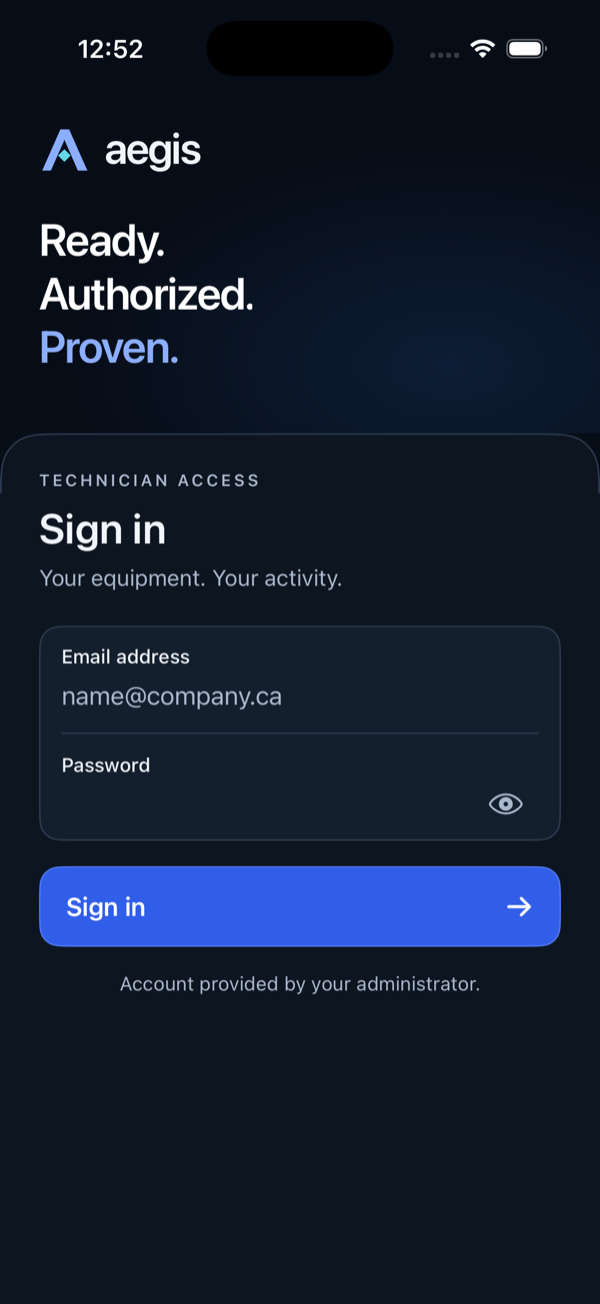
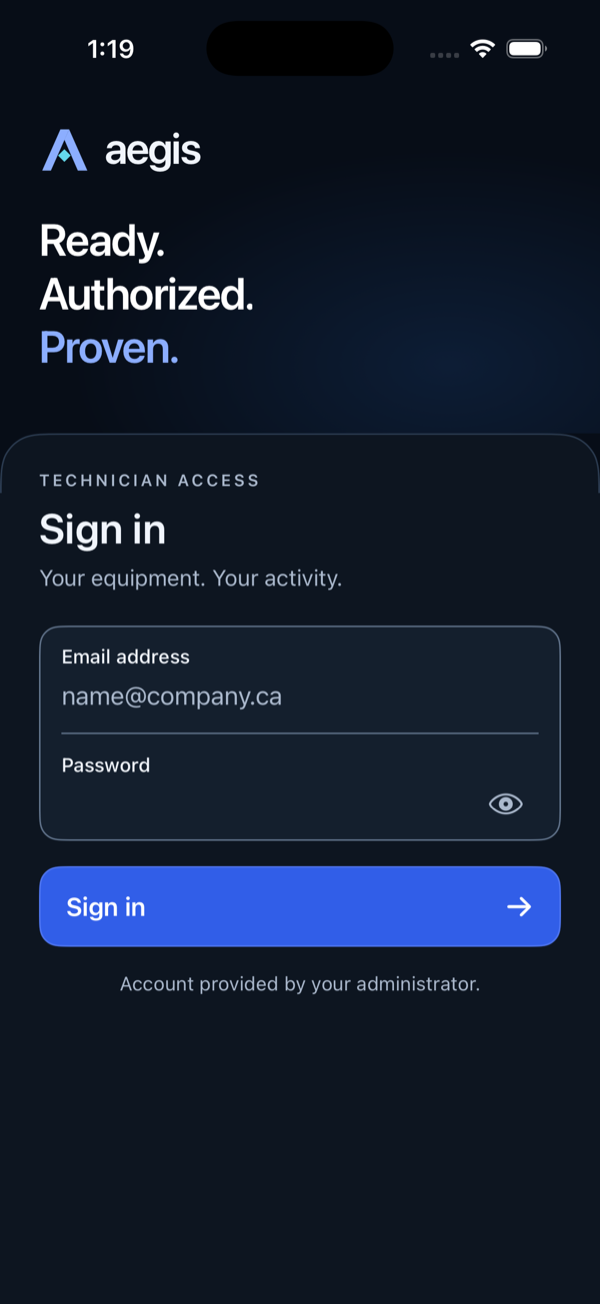
docs(design): finalize the approved iOS sign-in handoff
Record Philippe's approval of the v3 native adaptation and the finishing
decisions: field edges at 3:1 in the normal mode with a further increase
for Increase Contrast, persistent labels without redundant placeholders,
a single Retry-After display, the offline resume, the common signature and
the trace identifier label. Re-render the captures with the new edges.

Refs #35

Changed region(s): [[0.06, 0.4908, 0.09, 0.6442], [0.93, 0.4908, 0.96, 0.6135], [0.12, 0.0307, 0.24, 0.0613]]

diff --git a/docs/design/mobile-entree/prototype/SignInPrototype.swift b/docs/design/mobile-entree/prototype/SignInPrototype.swift
@@ -185,9 +185,8 @@ private struct SignInForm: View {
     @State private var revealed = false
     @Environment(\.colorSchemeContrast) private var contrast
 
-    /// The v3 border (1.3–1.6:1) is decorative; Increase Contrast gets an
-    /// edge that meets 3:1 for the input boundary.
-    private var fieldEdge: Color { contrast == .increased ? Palette.muted : Palette.border }
+    /// Field edges meet 3:1 in the normal mode; Increase Contrast goes further.
+    private var fieldEdge: Color { contrast == .increased ? Palette.muted : Palette.fieldEdge }
 
     init(state: ProtoState, text: Copy, focus: FocusState<SignInPrototypeScreen.Field?>.Binding) {
         self.state = state
@@ -463,6 +462,7 @@ enum Palette {
     static let text = dynamic(light: 0x122339, dark: 0xF1F5FC)
     static let muted = dynamic(light: 0x53647B, dark: 0xABB9CD)
     static let border = dynamic(light: 0xD7DFE9, dark: 0x2B3B50)
+    static let fieldEdge = dynamic(light: 0x7D8A9C, dark: 0x62748C)
     static let accent = dynamic(light: 0x234BCE, dark: 0x8CAEFF)
     static let button = dynamic(light: 0x234BCE, dark: 0x315EE8)
     static let buttonEdge = Color(red: 0x7D / 255, green: 0x9B / 255, blue: 1, opacity: 0.4)

diff --git a/docs/design/mobile-entree/proposition.md b/docs/design/mobile-entree/proposition.md
@@ -1,14 +1,26 @@
 # Aegis Mobile — connexion native, direction « Lumière du hub » v3
 
-Mode : Prototype. Mise à jour du 21 octobre 2026. Issues : #35 (DES-01),
-préalable à #36 (IOS-01); localisation coordonnée avec #78.
+Handoff pour #36 (IOS-01). Issue : #35 (DES-01); localisation coordonnée avec
+#78, identité avec #79. Mise à jour du 21 octobre 2026.
 
-**Statut.** Philippe a sélectionné la direction « Lumière du hub », révision
-v3 sans illustration (brief du 21 octobre 2026; référence
-`aegis-lumiere-du-hub-v3.html`). Cette page présente son **adaptation native**
-et les **nouveaux textes**. Elle doit être validée avant l'intégration dans
-#36. La version précédente (« Verre lumineux », 23 septembre) est remplacée;
-ses captures ont été retirées.
+**Statut : approuvé le 21 octobre 2026 par Philippe**, pour la direction
+« Lumière du hub » v3 sans illustration (référence
+`aegis-lumiere-du-hub-v3.html`), l'adaptation native ci-dessous et les
+décisions de finition :
+
+- bordures des champs renforcées dès le mode normal (≥ 3:1), et davantage avec
+  « Augmenter le contraste »;
+- libellés persistants, sans placeholder redondant;
+- délai `Retry-After` affiché une seule fois;
+- reprise hors ligne validée;
+- signature « Prêt. Autorisé. Prouvé. » / « Ready. Authorized. Proven. »;
+- « Identifiant de suivi » / « Trace ID »;
+- logo provisoire : monogramme et « aegis », sans « CORE »; le designer
+  livrera la version finale.
+
+Les autres textes suivent le glossaire partagé (`docs/localisation/`, #78), en
+formulations courtes et équivalentes en français et en anglais. La version
+précédente (« Verre lumineux », 23 septembre) est remplacée.
 
 Les captures viennent d'un prototype SwiftUI statique, compilé avec le SDK iOS
 dans une copie temporaire de `apps/ios`. Le code de l'application n'est pas
@@ -22,7 +34,7 @@ modifié.
 | Marque | « A » abstrait avec noyau, `aegis`, filet, `CORE` | Monogramme en asset vectoriel `AegisMark` (clair et sombre), suivi de `aegis` en police système; **sans `CORE`** (décision du 21 octobre 2026). VoiceOver lit « Aegis », en en-tête |
 | Panneau | Coins supérieurs de 27 pt, filet supérieur | Identique; le fond continue jusqu'en bas de l'écran |
 | Titre | Surtitre, « Connexion », sous-titre | Styles Dynamic Type (`caption2`, `title`, `subheadline`) |
-| Champs | Groupe à fond distinct, libellés persistants | `TextField` (`.username`, clavier courriel) et `SecureField` (`.password`, action Aller); bouton œil de 44 × 44 pt. Aucun placeholder pour le mot de passe : le libellé suffit |
+| Champs | Groupe à fond distinct, libellés persistants | `TextField` (`.username`, clavier courriel, action Suivant) et `SecureField` (`.password`, action Aller); bouton œil de 44 × 44 pt. Bordure et séparateur `fieldEdge` (≥ 3:1). Aucun placeholder pour le mot de passe : le libellé suffit; l'exemple de courriel reste |
 | Bouton | Plein, coins de 14 pt, flèche à droite, 54 pt de haut | Bouton natif avec style personnalisé. Pendant l'envoi : indicateur et « Connexion… », appuis ignorés, VoiceOver lit « Connexion en cours » |
 | Erreur | Bandeau teinté, une phrase | Une phrase courte, avec symbole; le délai `Retry-After` n'apparaît qu'ici |
 | Apparence | Sombre profond, Clair minéral | Apparence système; aucun sélecteur ajouté |
@@ -30,31 +42,32 @@ modifié.
 Aucune illustration, aucun casier ni indicateur « connecté » ou « sécurisé »
 avant l'authentification.
 
-## Textes (FR de référence, EN proposé)
+## Textes (FR de référence, EN)
 
-Tous les textes nouveaux ou raccourcis sont **à valider**.
+Validés le 21 octobre 2026 avec la consigne « formulations courtes et
+équivalentes ». Les textes de l'application vivent dans son String Catalog.
 
 | Clé | Français | English | Statut |
 |---|---|---|---|
-| Signature | Prêt. Autorisé. Prouvé. | Ready. Authorized. Proven. | à valider (brief) |
-| Surtitre | Espace technicien | Technician access | proposé (v3 / EN) |
-| Titre | Connexion | Sign in | approuvé (FR) |
-| Sous-titre | Vos équipements. Votre activité. | Your equipment. Your activity. | proposé (v3 / EN) |
-| Exemple de courriel | nom@entreprise.ca | name@company.ca | proposé |
-| Action | Se connecter | Sign in | approuvé (FR) |
-| Envoi | Connexion… (lu : « Connexion en cours ») | Signing in… (« Signing in ») | proposé |
-| Mention | Compte fourni par votre administrateur. | Account provided by your administrator. | approuvé (FR) |
-| Courriel invalide | Saisissez une adresse courriel valide. | Enter a valid email address. | proposé, raccourci |
-| Mot de passe vide | Saisissez votre mot de passe. | Enter your password. | proposé |
-| 401 identifiants | Adresse courriel ou mot de passe incorrect. | Incorrect email address or password. | approuvé (FR); corps supprimé |
-| 429 avec délai valide | Trop de tentatives. Réessayez dans 55 secondes. | Too many attempts. Try again in 55 seconds. | proposé (T1) |
-| 429 sans délai valide | Trop de tentatives. Réessayez plus tard. | Too many attempts. Try again later. | proposé |
-| Réseau | Connexion au service impossible. Vérifiez le réseau. | Can't reach the service. Check your network. | approuvé (FR) |
-| Session expirée | Votre session a expiré. Vos réservations et prêts sont conservés. | Your session has expired. Your reservations and loans are kept. | approuvé, raccourci (« Reconnectez-vous. » retiré : le formulaire le dit) |
-| Reprise hors ligne, titre | Connexion au service impossible | Can't reach the service | proposé |
-| Reprise hors ligne, corps | Votre session est conservée, mais elle n'a pas pu être vérifiée. Aucune action n'est possible hors ligne. | Your session is kept but couldn't be verified. No action is available offline. | proposé |
-| Reprise hors ligne, actions | Réessayer · Se déconnecter | Try again · Sign out | proposé |
-| Libellé du `traceId` | Identifiant de suivi | Trace ID | glossaire #78 |
+| Signature | Prêt. Autorisé. Prouvé. | Ready. Authorized. Proven. | validé |
+| Surtitre | Espace technicien | Technician access | validé |
+| Titre | Connexion | Sign in | validé |
+| Sous-titre | Vos équipements. Votre activité. | Your equipment. Your activity. | validé |
+| Exemple de courriel | nom@entreprise.ca | name@company.ca | validé |
+| Action | Se connecter | Sign in | validé |
+| Envoi | Connexion… (lu : « Connexion en cours ») | Signing in… (« Signing in ») | validé |
+| Mention | Compte fourni par votre administrateur. | Account provided by your administrator. | validé |
+| Courriel invalide | Saisissez une adresse courriel valide. | Enter a valid email address. | validé |
+| Mot de passe vide | Saisissez votre mot de passe. | Enter your password. | validé |
+| 401 identifiants | Adresse courriel ou mot de passe incorrect. | Incorrect email address or password. | validé |
+| 429 avec délai valide | Trop de tentatives. Réessayez dans 55 secondes. | Too many attempts. Try again in 55 seconds. | validé |
+| 429 sans délai valide | Trop de tentatives. Réessayez plus tard. | Too many attempts. Try again later. | validé |
+| Réseau | Connexion au service impossible. Vérifiez le réseau. | Can't reach the service. Check your network. | validé |
+| Session expirée | Votre session a expiré. Vos réservations et prêts sont conservés. | Your session has expired. Your reservations and loans are kept. | validé |
+| Reprise hors ligne, titre | Connexion au service impossible | Can't reach the service | validé |
+| Reprise hors ligne, corps | Votre session est conservée, mais elle n'a pas pu être vérifiée. Aucune action n'est possible hors ligne. | Your session is kept but couldn't be verified. No action is available offline. | validé |
+| Reprise hors ligne, actions | Réessayer · Se déconnecter | Try again · Sign out | validé |
+| Libellé du `traceId` | Identifiant de suivi | Trace ID | validé |
 
 Les autres états de la matrice précédente (erreur du service avec
 `traceId`, session invalide, déconnecté, mauvais rôle) gardent leur logique,
@@ -108,12 +121,13 @@ dans `09` §10.2 est suivie par la session API dans #80.
 | Erreur / fond d'erreur | 10,2 | 6,8 |
 | Monogramme « A » / en-tête | 8,9 | 6,3 |
 | Noyau du monogramme / en-tête | 11,6 | 4,4 |
-| **Bordure des champs / panneau** | **1,6** | **1,3** |
+| Bordure des champs `#62748C` / `#7D8A9C`, sur le champ | 3,5 | 3,2 |
+| Même bordure, sur le panneau | 3,8 | 3,5 |
+| Bordure en « Augmenter le contraste » (texte secondaire), sur le champ | 8,4 | 5,5 |
 
-Tout le texte dépasse 4,5:1. La bordure des champs n'atteint pas 3:1 :
-le libellé persistant identifie chaque champ. Avec « Augmenter le
-contraste », la bordure prend la couleur du texte secondaire (≥ 5,5:1), comme
-le montre `fr-inactif-light-contrast.png`.
+Tout le texte dépasse 4,5:1 et les bordures des champs atteignent 3:1 dès le
+mode normal. Le filet décoratif du panneau (`border`, 1,3 à 1,6:1) ne
+délimite pas de contrôle.
 
 Taille minimale du monogramme : **24 pt recommandés** (taille du petit
 spécimen v3, noyau de 6 pt). Seul le rendu à 34 pt a été vérifié.
@@ -149,12 +163,15 @@ IOS_APP_DIR=<chemin vers apps/ios> docs/design/mobile-entree/prototype/render.sh
 | VoiceOver (ordre, libellés, annonce d'envoi) | **non exécuté**; libellés présents dans le code |
 | Réduire les animations | **non vérifié en rendu**; l'animation de compactage est supprimée dans le code |
 | Clavier français | le simulateur affiche son clavier système anglais |
-| iPhone 11 et iPhone 15 Plus | **non testés**; versions iOS à relever |
+| iPhone 12 (Philippe) et iPhone 15 Plus (Jimmy) | **non testés**; versions iOS déclarées, à confirmer dans Réglages |
 
-## Décisions à valider
+## Pour l'implémentation (#36)
 
-1. L'adaptation native ci-dessus et les textes marqués « proposé » ou
-   « raccourci ».
-2. La signature FR/EN, que le brief garde à valider.
-3. Le renforcement de la bordure des champs limité au mode « Augmenter le
-   contraste », plutôt qu'une bordure plus foncée par défaut.
+- Couleurs : jetons v3 ci-dessus en catalogue d'assets, avec une variante
+  « High Contrast » pour `fieldEdge`.
+- Monogramme : `AegisMark.imageset` (SVG clair et sombre, vecteur conservé).
+- Textes : String Catalog, clés françaises, traduction anglaise complète.
+- États : matrice ci-dessus, plus « mauvais rôle » (U6), « session invalide »
+  et « déconnecté », en une phrase chacun.
+- Le prototype de `prototype/` reste la référence de rendu; il n'est pas
+  copié tel quel dans l'application.
